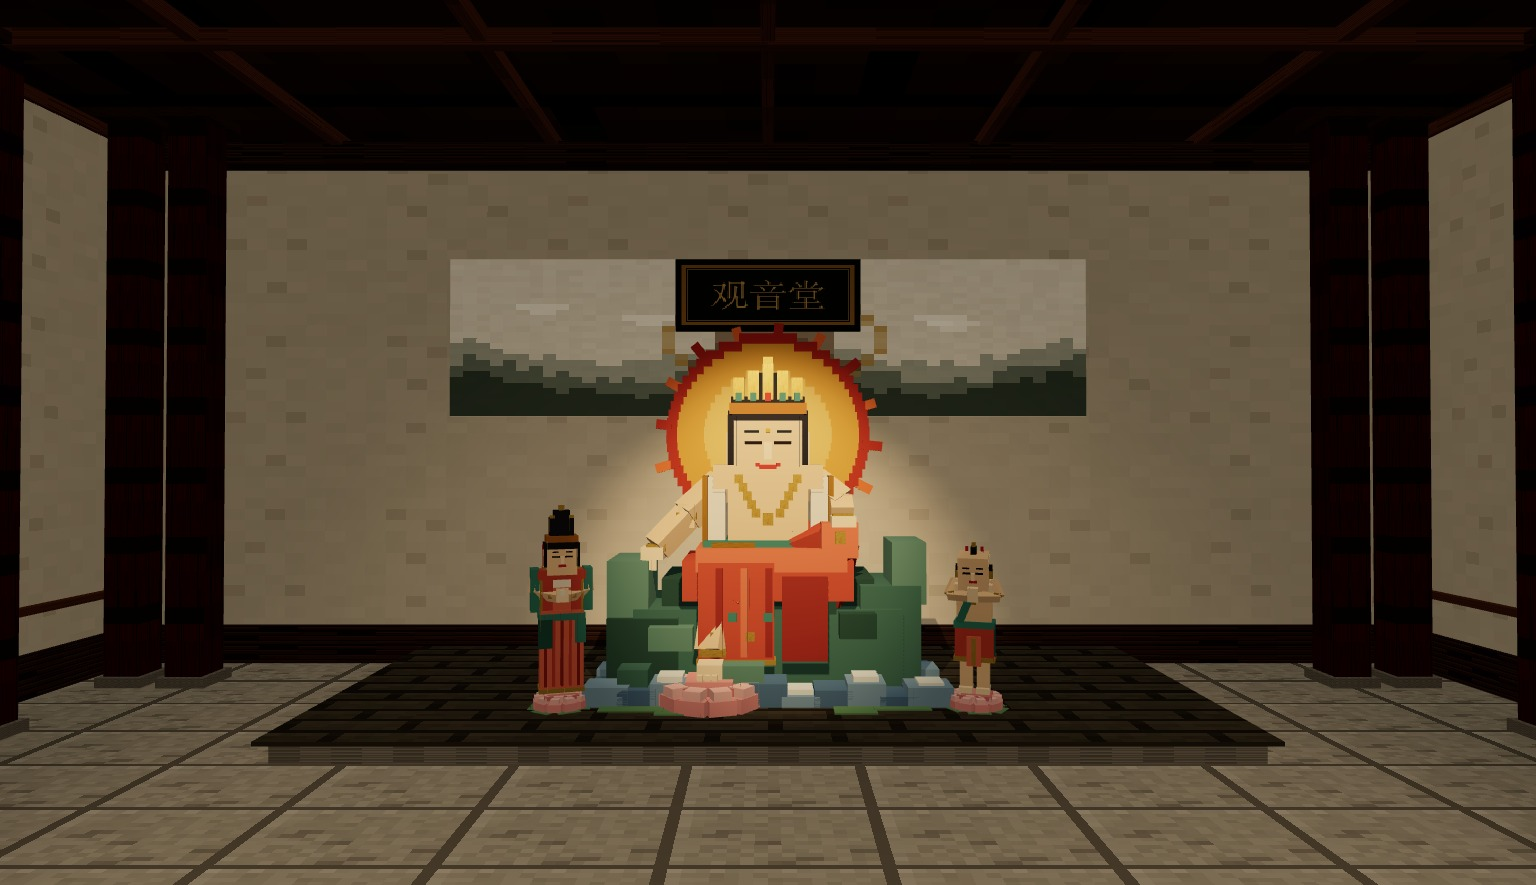
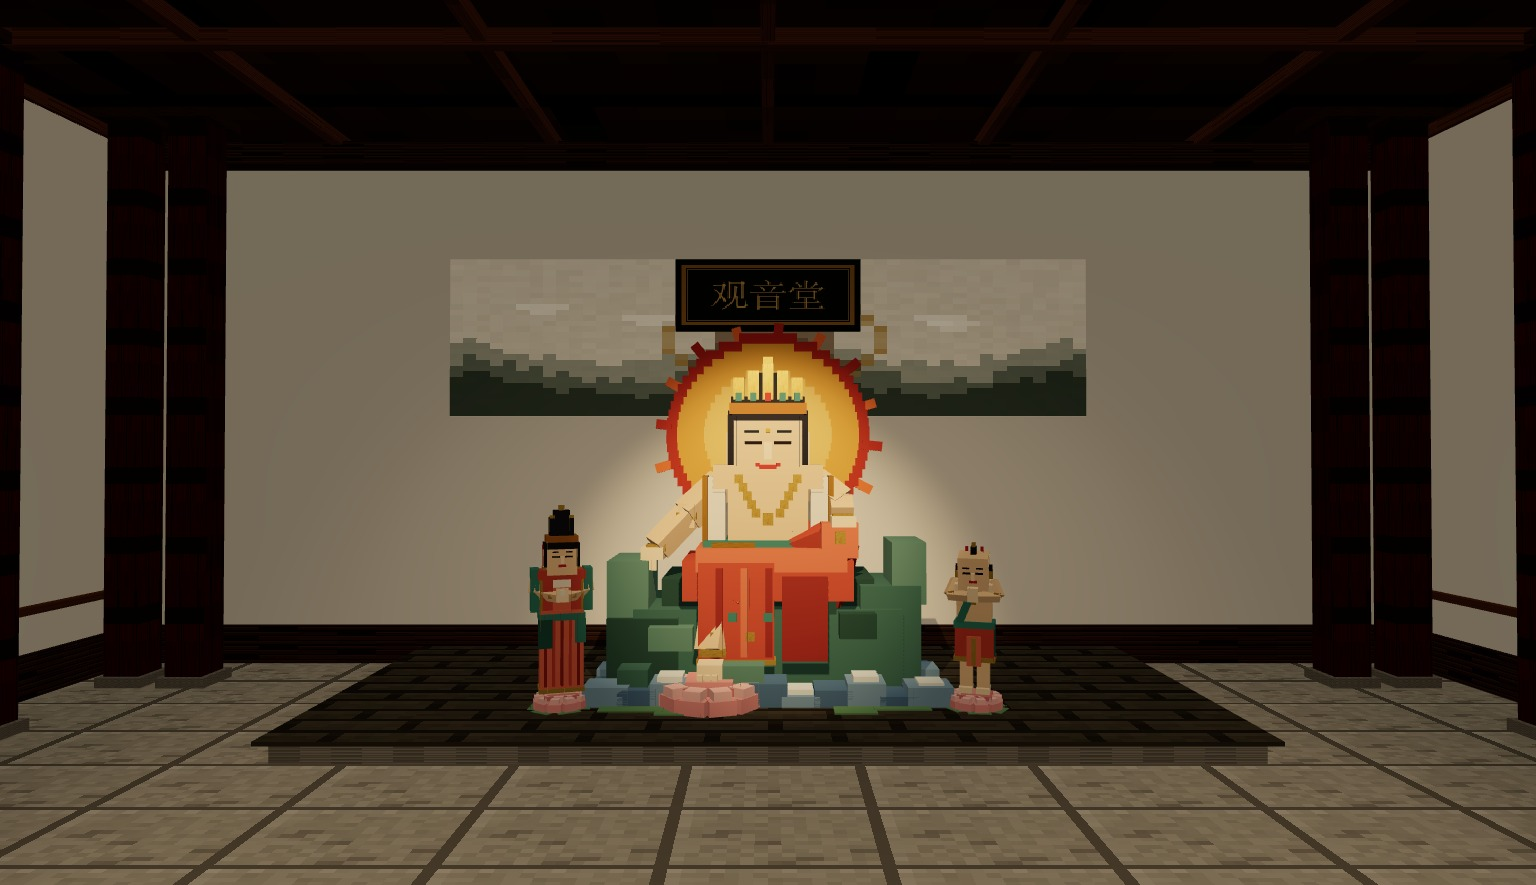
feat: 白墙青栏与横向连廊亭子优化

diff --git a/src/world/Outdoor.js b/src/world/Outdoor.js
@@ -154,15 +154,15 @@ function buildHall(g, cfg, blockers, surfaces) {
   const doorH = Math.min(4.6, wallH * 0.78);
   const doorW = Math.min(4.4, w * 0.32);
   const openW = doorW + 0.52;
-  box(g2, w, wallH, 0.5, 0, wallY, -d / 2, M.plaster, { cast: true });
-  box(g2, 0.5, wallH, d, -w / 2, wallY, 0, M.plaster, { cast: true });
-  box(g2, 0.5, wallH, d, w / 2, wallY, 0, M.plaster, { cast: true });
+  box(g2, w, wallH, 0.5, 0, wallY, -d / 2, M.wallWhite, { cast: true });
+  box(g2, 0.5, wallH, d, -w / 2, wallY, 0, M.wallWhite, { cast: true });
+  box(g2, 0.5, wallH, d, w / 2, wallY, 0, M.wallWhite, { cast: true });
   // 前墙留出门洞：左右两段 + 门楣
-  box(g2, (w - openW) / 2, wallH, 0.5, -(w + openW) / 4, wallY, d / 2, M.plaster, { cast: true });
-  box(g2, (w - openW) / 2, wallH, 0.5, (w + openW) / 4, wallY, d / 2, M.plaster, { cast: true });
+  box(g2, (w - openW) / 2, wallH, 0.5, -(w + openW) / 4, wallY, d / 2, M.wallWhite, { cast: true });
+  box(g2, (w - openW) / 2, wallH, 0.5, (w + openW) / 4, wallY, d / 2, M.wallWhite, { cast: true });
   const lintelH = wallH - doorH;
   if (lintelH > 0.03) {
-    box(g2, openW, lintelH, 0.5, 0, fp + doorH + lintelH / 2, d / 2, M.plaster, { cast: true });
+    box(g2, openW, lintelH, 0.5, 0, fp + doorH + lintelH / 2, d / 2, M.wallWhite, { cast: true });
   }
 
   // red columns across the front
@@ -305,12 +305,12 @@ function buildArch(parent, { x, y, z, width, height, wallTop, wallT = 0.5, dir =
     const sw = width * steps[i];
     const side = (width - sw) / 2;
     const ry = y + height + rowH * i + rowH / 2;
-    box(parent, side, rowH, wallT, x - sw / 2 - side / 2, ry, z, M.plaster, { cast: true });
-    box(parent, side, rowH, wallT, x + sw / 2 + side / 2, ry, z, M.plaster, { cast: true });
+    box(parent, side, rowH, wallT, x - sw / 2 - side / 2, ry, z, M.wallWhite, { cast: true });
+    box(parent, side, rowH, wallT, x + sw / 2 + side / 2, ry, z, M.wallWhite, { cast: true });
   }
   const crown = y + height + rowH * steps.length;
   if (wallTop - crown > 0.02) {
-    box(parent, width, wallTop - crown, wallT, x, crown + (wallTop - crown) / 2, z, M.plaster, { cast: true });
+    box(parent, width, wallTop - crown, wallT, x, crown + (wallTop - crown) / 2, z, M.wallWhite, { cast: true });
   }
 
   const darkZ = z - dir * 0.62;
@@ -439,8 +439,8 @@ function buildGate(g, cfg, blockers, surfaces, interactives, updaters) {
   plane(g2, w - 0.6, d - 0.6, 0, fp + 0.01, 0, M.floorStone, [-Math.PI / 2, 0, 0]);
 
   // 侧墙
-  box(g2, 0.5, lowerWallH, d, -w / 2, fp + lowerWallH / 2, 0, M.plaster, { cast: true });
-  box(g2, 0.5, lowerWallH, d, w / 2, fp + lowerWallH / 2, 0, M.plaster, { cast: true });
+  box(g2, 0.5, lowerWallH, d, -w / 2, fp + lowerWallH / 2, 0, M.wallWhite, { cast: true });
+  box(g2, 0.5, lowerWallH, d, w / 2, fp + lowerWallH / 2, 0, M.wallWhite, { cast: true });
 
   // 正面与背面白墙墙垛，留出三座拱门
   const piers = [
@@ -451,7 +451,7 @@ function buildGate(g, cfg, blockers, surfaces, interactives, updaters) {
   ];
   for (const wz of [-frontZ, frontZ]) {
     for (const [a, b] of piers) {
-      box(g2, b - a, lowerWallH, 0.5, (a + b) / 2, fp + lowerWallH / 2, wz, M.plaster, { cast: true });
+      box(g2, b - a, lowerWallH, 0.5, (a + b) / 2, fp + lowerWallH / 2, wz, M.wallWhite, { cast: true });
     }
   }
   for (const o of GATE_OPENINGS) {
@@ -565,6 +565,10 @@ function buildGate(g, cfg, blockers, surfaces, interactives, updaters) {
       x: side * 5.2, y: fp + 4.15, z: frontZ + 0.28,
       width: 4.8, depth: 2.9, rise: 0.9,
     });
+    box(g2, 4.2, 0.1, 0.12, side * 5.2, fp + 3.82, frontZ + 0.72, M.railingTeal, { cast: false });
+    for (const dx of [-1.8, -0.6, 0.6, 1.8]) {
+      box(g2, 0.1, 0.46, 0.1, side * 5.2 + dx, fp + 3.62, frontZ + 0.72, M.railingTeal, { cast: false });
+    }
   }
 
   // 二层楼身
@@ -573,10 +577,10 @@ function buildGate(g, cfg, blockers, surfaces, interactives, updaters) {
   const upperD = 5.2;
   const upperH = 2.35;
   const upperTop = upperBase + upperH;
-  box(g2, upperW, upperH, 0.5, 0, upperBase + upperH / 2, upperD / 2, M.plaster, { cast: true });
-  box(g2, upperW, upperH, 0.5, 0, upperBase + upperH / 2, -upperD / 2, M.plaster, { cast: true });
-  box(g2, 0.5, upperH, upperD, -upperW / 2, upperBase + upperH / 2, 0, M.plaster, { cast: true });
-  box(g2, 0.5, upperH, upperD, upperW / 2, upperBase + upperH / 2, 0, M.plaster, { cast: true });
+  box(g2, upperW, upperH, 0.5, 0, upperBase + upperH / 2, upperD / 2, M.wallWhite, { cast: true });
+  box(g2, upperW, upperH, 0.5, 0, upperBase + upperH / 2, -upperD / 2, M.wallWhite, { cast: true });
+  box(g2, 0.5, upperH, upperD, -upperW / 2, upperBase + upperH / 2, 0, M.wallWhite, { cast: true });
+  box(g2, 0.5, upperH, upperD, upperW / 2, upperBase + upperH / 2, 0, M.wallWhite, { cast: true });
   box(g2, upperW, 0.3, upperD, 0, upperBase + 0.15, 0, M.woodDark, { cast: false });
 
   for (const cx of [-4.2, -1.4, 1.4, 4.2]) {
@@ -755,18 +759,33 @@ function buildCorridor(g, { x, z, length, axis = 'z', y = 0, width = 2.6, height
     box(group, width, 0.16, 0.22, 0, y + height - 0.08, t, M.woodDark, { cast: false });
   }
 
-  // 连廊主体是窄长屋顶，两端加小亭子屋顶。
+  // 连廊主体是窄长屋顶，两端加白墙 + 双层亭顶。
   hippedRoof(group, {
     y: y + height + 0.08, width, depth: length + 0.5, rise: 0.72,
   });
   for (const end of [-1, 1]) {
+    const zEnd = end * (half + 0.08);
+    box(group, width - 0.35, 1.05, 0.16, 0, y + 0.62, zEnd, M.wallWhite, { cast: false });
+    for (const dx of [-width * 0.25, 0, width * 0.25]) {
+      box(group, 0.07, 0.9, 0.18, dx, y + 0.62, zEnd + end * 0.09, M.woodDark, { cast: false });
+    }
+    box(group, width - 0.4, 0.07, 0.19, 0, y + 0.4, zEnd + end * 0.1, M.woodDark, { cast: false });
     hippedRoof(group, {
-      x: 0, y: y + height + 0.35, z: end * (half + 0.1),
-      width: width + 1.0, depth: 3.2, rise: 0.95,
+      x: 0, y: y + height + 0.35, z: zEnd,
+      width: width + 1.2, depth: 3.3, rise: 0.95,
+    });
+    hippedRoof(group, {
+      x: 0, y: y + height + 1.12, z: zEnd,
+      width: width * 0.72, depth: 2.3, rise: 0.72,
     });
   }
   for (const side of [-1, 1]) {
-    box(group, 0.1, 0.72, length, side * (width / 2 - 0.2), y + 0.48, 0, M.woodDark, { cast: false });
+    // 白墙裙 + 青色栏杆
+    box(group, 0.13, 0.6, length, side * (width / 2 - 0.22), y + 0.3, 0, M.wallWhite, { cast: false });
+    box(group, 0.11, 0.12, length, side * (width / 2 - 0.2), y + 0.9, 0, M.railingTeal, { cast: false });
+    for (let t = -half; t <= half; t += 2.0) {
+      box(group, 0.1, 0.5, 0.1, side * (width / 2 - 0.2), y + 0.64, t, M.railingTeal, { cast: false });
+    }
   }
 }
 
@@ -872,7 +891,11 @@ function buildPavilion(g, blockers) {
   hippedRoof(g, { y: y + h * 0.82, width: w * 0.95, depth: d * 0.95, rise: 1.0 });
 
   for (const sx of [-1, 1]) {
-    box(g, 0.12, 0.62, d * 0.72, x + sx * (w / 2 - 0.3), y + h * 0.3, z, M.woodDark, { cast: false });
+    box(g, 0.13, 0.62, d * 0.72, x + sx * (w / 2 - 0.3), y + h * 0.3, z, M.wallWhite, { cast: false });
+    box(g, 0.12, 0.1, d * 0.76, x + sx * (w / 2 - 0.28), y + h * 0.3 + 0.56, z, M.railingTeal, { cast: false });
+    for (let i = -2; i <= 2; i++) {
+      box(g, 0.09, 0.46, 0.09, x + sx * (w / 2 - 0.26), y + h * 0.3 + 0.28, z + i * 0.55, M.railingTeal, { cast: false });
+    }
   }
 }
 

diff --git a/src/world/Materials.js b/src/world/Materials.js
@@ -8,8 +8,11 @@ export const M = {
   floorWood: std({ map: P.woodLight([6, 6]), roughness: 0.56, metalness: 0.02 }),
   path: std({ map: P.path([8, 12]), roughness: 0.9 }),
   earth: std({ map: P.grass([14, 14]), roughness: 1 }),
-  plaster: std({ map: P.plaster([4, 3]), roughness: 0.94 }),
-  plasterWhite: std({ color: 0xe9e1d1, roughness: 0.95 }),
+  plaster: std({ map: P.plaster([4, 3]), color: 0xf2eee5, roughness: 0.94 }),
+  wallWhite: std({ color: 0xf7f4ec, roughness: 0.96 }),
+  plasterWhite: std({ color: 0xf3efe6, roughness: 0.95 }),
+  railingTeal: std({ color: 0x2d7f78, roughness: 0.5, metalness: 0.08 }),
+  railingTealDark: std({ color: 0x23645f, roughness: 0.55, metalness: 0.08 }),
   wood: std({ map: P.woodWarm([2, 2]), roughness: 0.62 }),
   woodDark: std({ map: P.woodDark([2, 2]), roughness: 0.66 }),
   woodLight: std({ map: P.woodLight([3, 3]), roughness: 0.58 }),

diff --git a/src/world/Props.js b/src/world/Props.js
@@ -109,7 +109,7 @@ export function stairs(parent, { x = 0, z0, z1, y0, y1, width = 8, steps = 5, ma
   }
 }
 
-export function balustrade(parent, { x0, x1, z0, z1, y0, y1, mat = M.stoneDark }) {
+export function balustrade(parent, { x0, x1, z0, z1, y0, y1, mat = M.railingTeal }) {
   const dx = x1 - x0;
   const dz = z1 - z0;
   const len = Math.hypot(dx, dz);
@@ -120,7 +120,7 @@ export function balustrade(parent, { x0, x1, z0, z1, y0, y1, mat = M.stoneDark }
     const pz = z0 + dz * t;
     const py = y0 + (y1 - y0) * t;
     box(parent, 0.22, 0.96, 0.22, px, py + 0.48, pz, mat, { cast: false });
-    box(parent, 0.3, 0.1, 0.3, px, py + 0.98, pz, M.stone, { cast: false });
+    box(parent, 0.3, 0.1, 0.3, px, py + 0.98, pz, M.railingTealDark, { cast: false });
   }
   const a = new THREE.Vector3(x0, y0 + 0.92, z0);
   const b = new THREE.Vector3(x1, y1 + 0.92, z1);

diff --git a/src/world/Room.js b/src/world/Room.js
@@ -23,10 +23,10 @@ export function buildRoomShell({
   floor.receiveShadow = true;
   g.add(floor);
 
-  box(g, w + 0.6, h, 0.4, 0, h / 2, -halfD - 0.2, M.plaster, { cast: false });
-  box(g, 0.4, h, d + 0.4, -halfW - 0.2, h / 2, 0, M.plaster, { cast: false });
-  box(g, 0.4, h, d + 0.4, halfW + 0.2, h / 2, 0, M.plaster, { cast: false });
-  box(g, w + 0.6, h, 0.4, 0, h / 2, halfD + 0.2, M.plaster, { cast: false });
+  box(g, w + 0.6, h, 0.4, 0, h / 2, -halfD - 0.2, M.wallWhite, { cast: false });
+  box(g, 0.4, h, d + 0.4, -halfW - 0.2, h / 2, 0, M.wallWhite, { cast: false });
+  box(g, 0.4, h, d + 0.4, halfW + 0.2, h / 2, 0, M.wallWhite, { cast: false });
+  box(g, w + 0.6, h, 0.4, 0, h / 2, halfD + 0.2, M.wallWhite, { cast: false });
 
   // wainscot and cornice
   for (const side of [-1, 1]) {

diff --git a/README.md b/README.md
@@ -64,6 +64,7 @@ http://127.0.0.1:8000/?quality=high     # SSAO + Bloom + 阴影，DPR 1.75
 - 左右两侧的药师殿、龙王殿、财神殿、祖堂、五观堂、文创店通过 `ry = ±π/2` 转向中轴；观音堂回到中轴，与释迦、潮音、凌霄组成五进中轴。
 - 殿堂层高整体提高约 30%，并重新生成对应宽高比的背景图，室内视觉空间更大。
 - 新增 `Orientation.js`，旋转建筑时同步旋转碰撞、可行走面、交互点、背景和室内陈设。
+- 建筑墙体统一为暖白色，台阶/连廊/亭子的栏杆统一为青色；横向连廊两端为白墙、青栏、双层亭顶。
 
 重新生成殿堂背景图：
 
